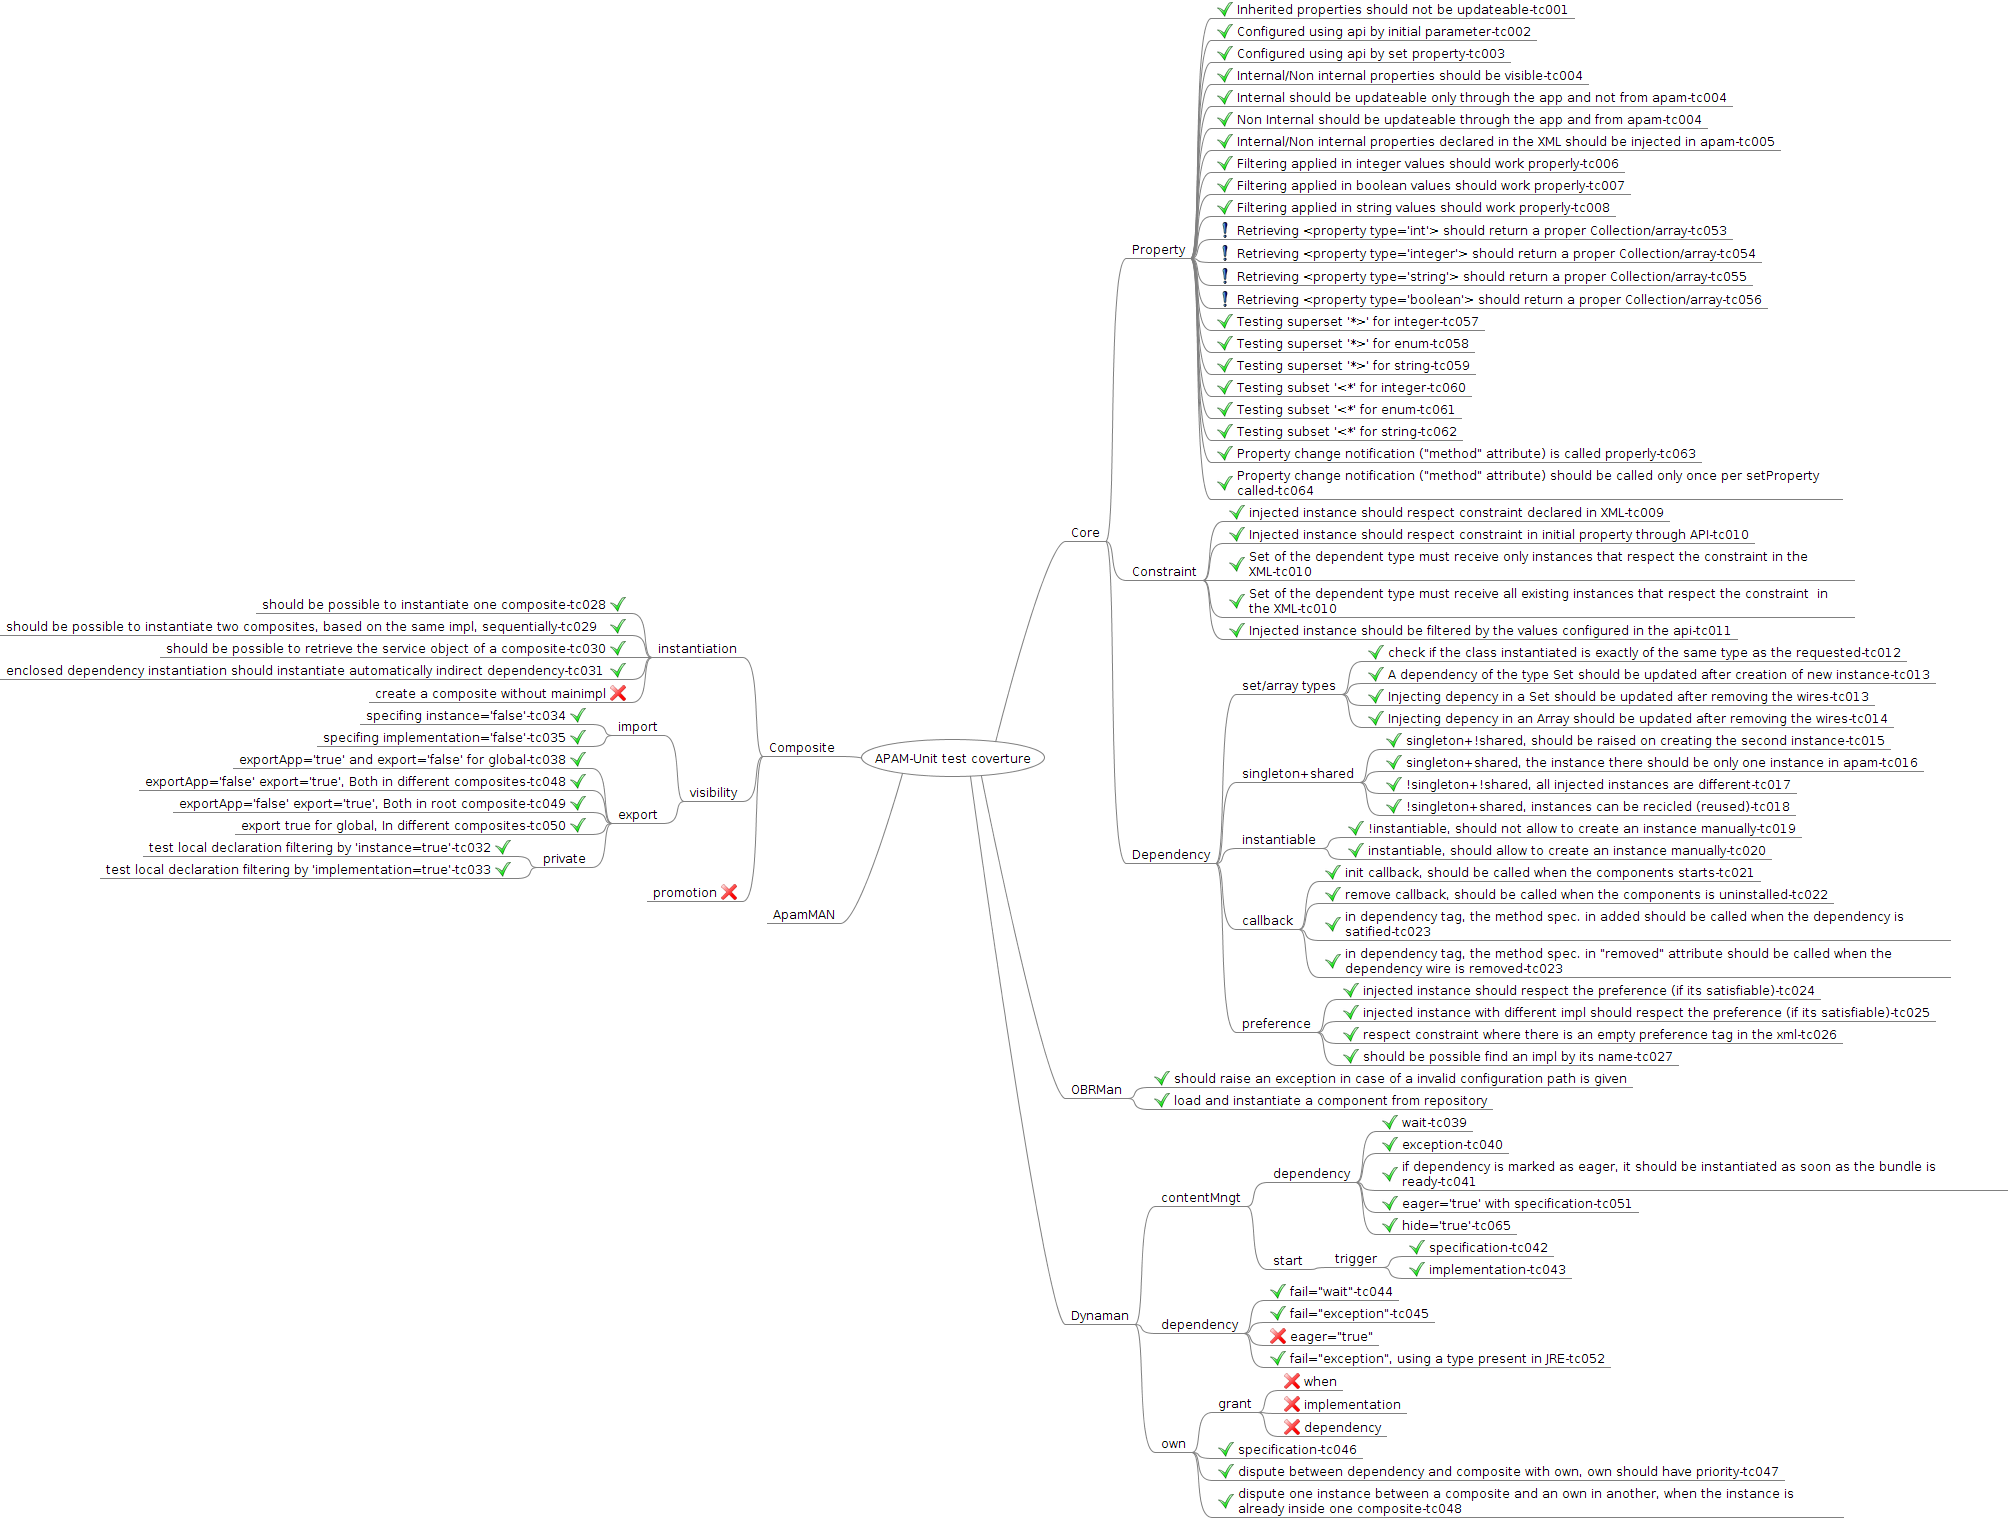
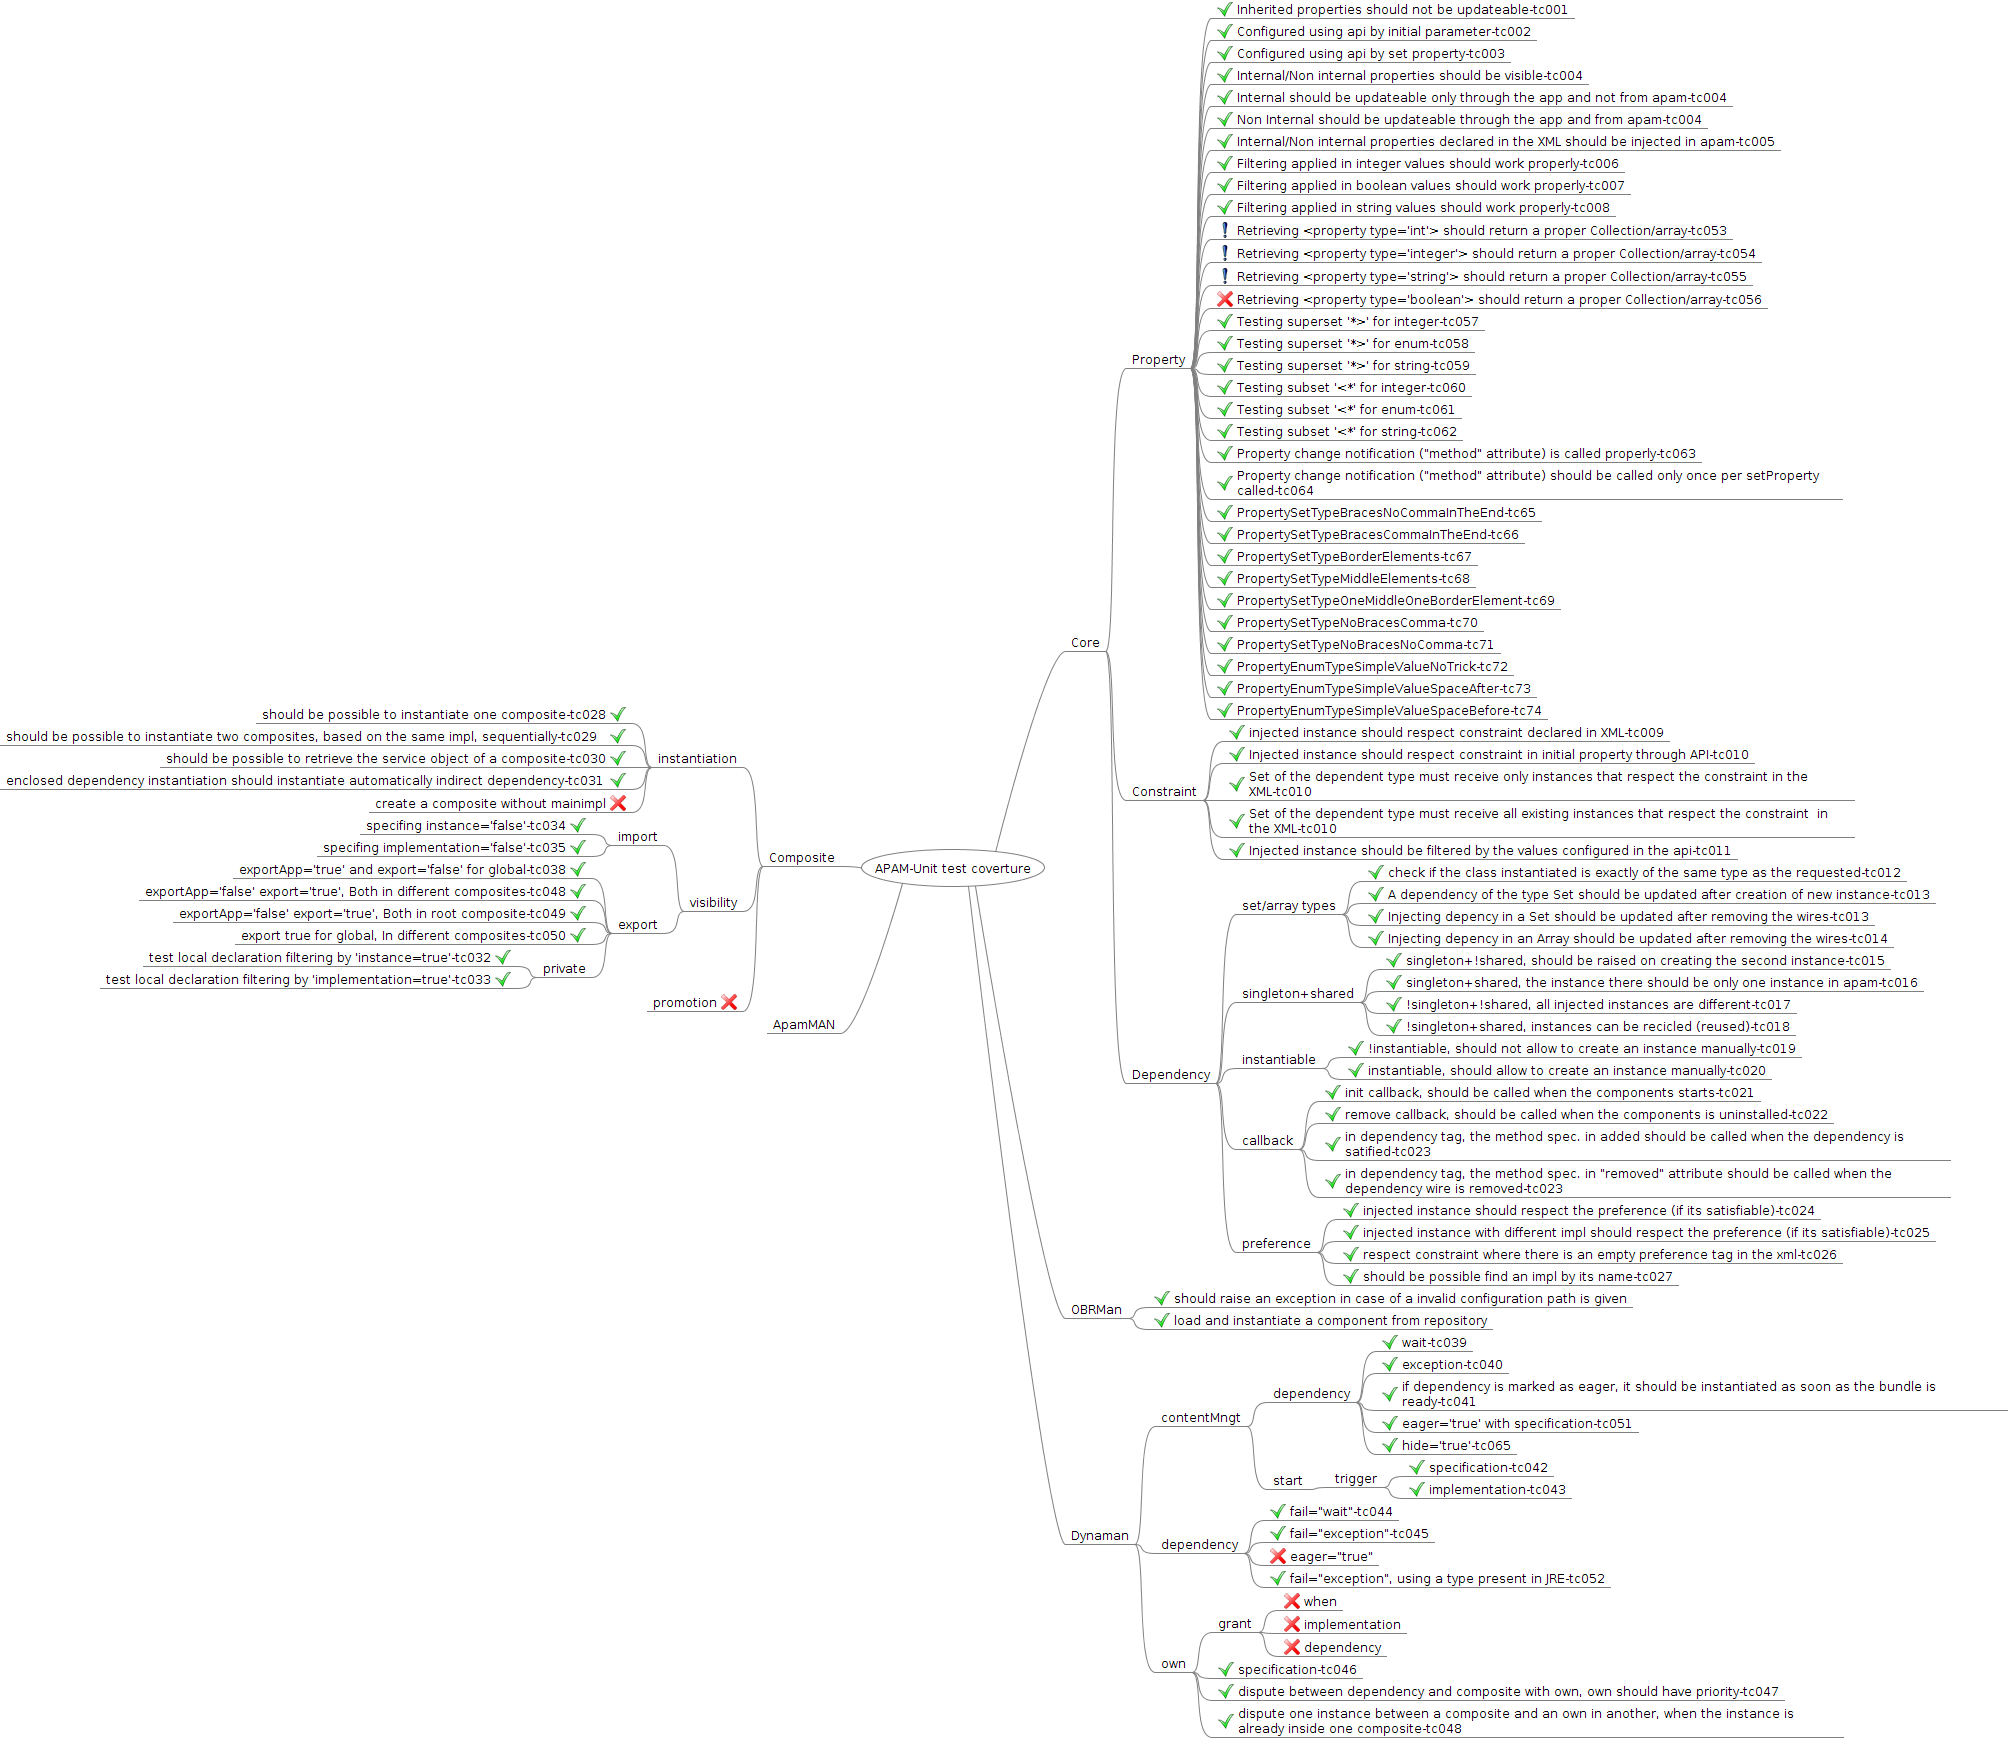
updating test coverage diagram

diff --git a/documentations/technical/test-coverture/APAM-UnitTest-Coverture-OnFreeMindApp.mm b/documentations/technical/test-coverture/APAM-UnitTest-Coverture-OnFreeMindApp.mm
@@ -2,7 +2,7 @@
 <!-- To view this file, download free mind mapping software FreeMind from http://freemind.sourceforge.net -->
 <node CREATED="1353065971613" ID="ID_856281372" MODIFIED="1354182410062" TEXT="APAM-Unit test coverture">
 <node CREATED="1353065995318" ID="ID_866107605" MODIFIED="1353066274405" POSITION="right" TEXT="Core">
-<node CREATED="1353066005446" ID="ID_776905123" MODIFIED="1359554645242" TEXT="Property">
+<node CREATED="1353066005446" ID="ID_776905123" MODIFIED="1360338389070" TEXT="Property">
 <node CREATED="1353066218822" ID="ID_476104344" MODIFIED="1354294351351" TEXT="Inherited properties should not be updateable-tc001">
 <icon BUILTIN="button_ok"/>
 </node>
@@ -42,8 +42,8 @@
 <node CREATED="1355931835542" ID="ID_450621789" MODIFIED="1356684955117" TEXT="Retrieving &lt;property type=&apos;string&apos;&gt; should return a proper Collection/array-tc055">
 <icon BUILTIN="yes"/>
 </node>
-<node CREATED="1355931835542" ID="ID_1598888249" MODIFIED="1356684955116" TEXT="Retrieving &lt;property type=&apos;boolean&apos;&gt; should return a proper Collection/array-tc056">
-<icon BUILTIN="yes"/>
+<node CREATED="1355931835542" ID="ID_1598888249" MODIFIED="1360339406812" TEXT="Retrieving &lt;property type=&apos;boolean&apos;&gt; should return a proper Collection/array-tc056">
+<icon BUILTIN="button_cancel"/>
 </node>
 <node CREATED="1356684961188" ID="ID_1368445057" MODIFIED="1356685224122" TEXT="Testing superset &apos;*&gt;&apos; for integer-tc057">
 <icon BUILTIN="button_ok"/>
@@ -67,6 +67,36 @@
 <icon BUILTIN="button_ok"/>
 </node>
 <node CREATED="1359555151681" ID="ID_1998306046" MODIFIED="1359555177966" TEXT="Property change notification (&quot;method&quot; attribute) should be called only once per setProperty called-tc064">
+<icon BUILTIN="button_ok"/>
+</node>
+<node CREATED="1360338389951" ID="ID_1623151872" MODIFIED="1360338564501" TEXT="PropertySetTypeBracesNoCommaInTheEnd-tc65">
+<icon BUILTIN="button_ok"/>
+</node>
+<node CREATED="1360338440209" ID="ID_1322873364" MODIFIED="1360338564505" TEXT="PropertySetTypeBracesCommaInTheEnd-tc66">
+<icon BUILTIN="button_ok"/>
+</node>
+<node CREATED="1360338452400" ID="ID_206803306" MODIFIED="1360338564505" TEXT="PropertySetTypeBorderElements-tc67">
+<icon BUILTIN="button_ok"/>
+</node>
+<node CREATED="1360338461504" ID="ID_1779740709" MODIFIED="1360338564504" TEXT="PropertySetTypeMiddleElements-tc68">
+<icon BUILTIN="button_ok"/>
+</node>
+<node CREATED="1360338473041" ID="ID_1945827962" MODIFIED="1360338564504" TEXT="PropertySetTypeOneMiddleOneBorderElement-tc69">
+<icon BUILTIN="button_ok"/>
+</node>
+<node CREATED="1360338480640" ID="ID_551700211" MODIFIED="1360338564503" TEXT="PropertySetTypeNoBracesComma-tc70">
+<icon BUILTIN="button_ok"/>
+</node>
+<node CREATED="1360338488864" ID="ID_1145166061" MODIFIED="1360338564503" TEXT="PropertySetTypeNoBracesNoComma-tc71">
+<icon BUILTIN="button_ok"/>
+</node>
+<node CREATED="1360338496768" ID="ID_1725393579" MODIFIED="1360338564502" TEXT="PropertyEnumTypeSimpleValueNoTrick-tc72">
+<icon BUILTIN="button_ok"/>
+</node>
+<node CREATED="1360338502799" ID="ID_1190440980" MODIFIED="1360338564502" TEXT="PropertyEnumTypeSimpleValueSpaceAfter-tc73">
+<icon BUILTIN="button_ok"/>
+</node>
+<node CREATED="1360338509073" ID="ID_1192619082" MODIFIED="1360338564502" TEXT="PropertyEnumTypeSimpleValueSpaceBefore-tc74">
 <icon BUILTIN="button_ok"/>
 </node>
 </node>
